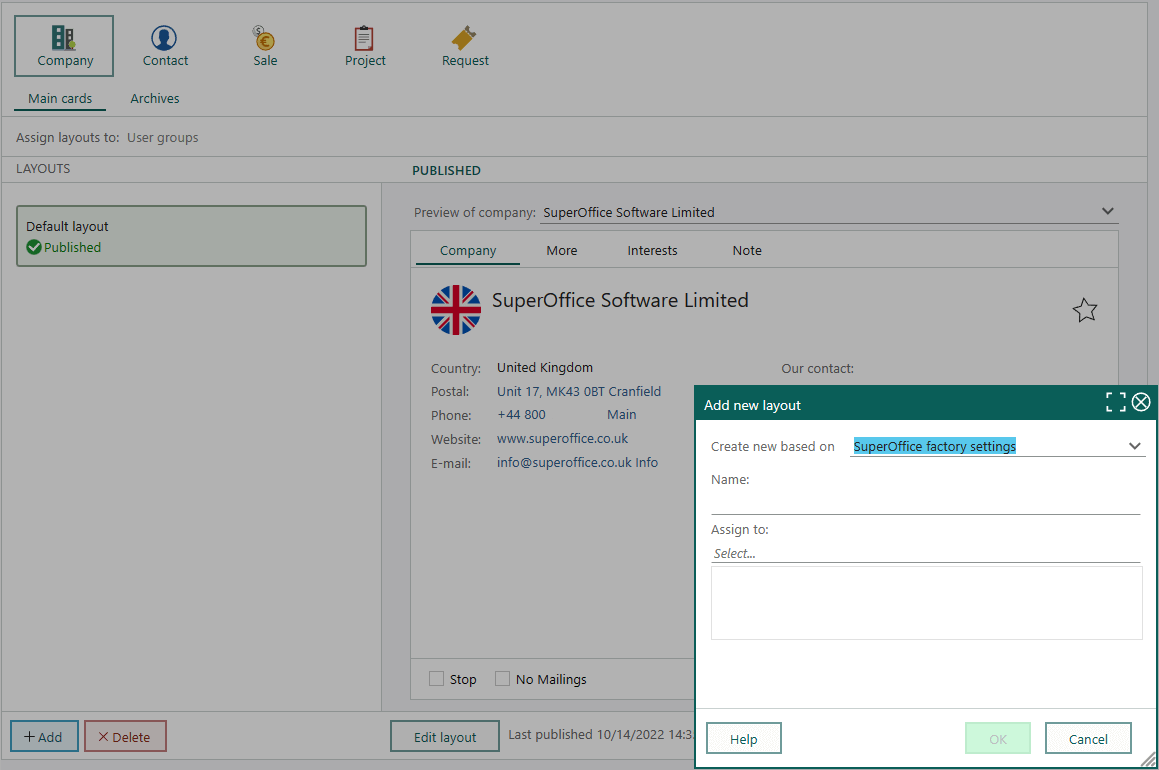
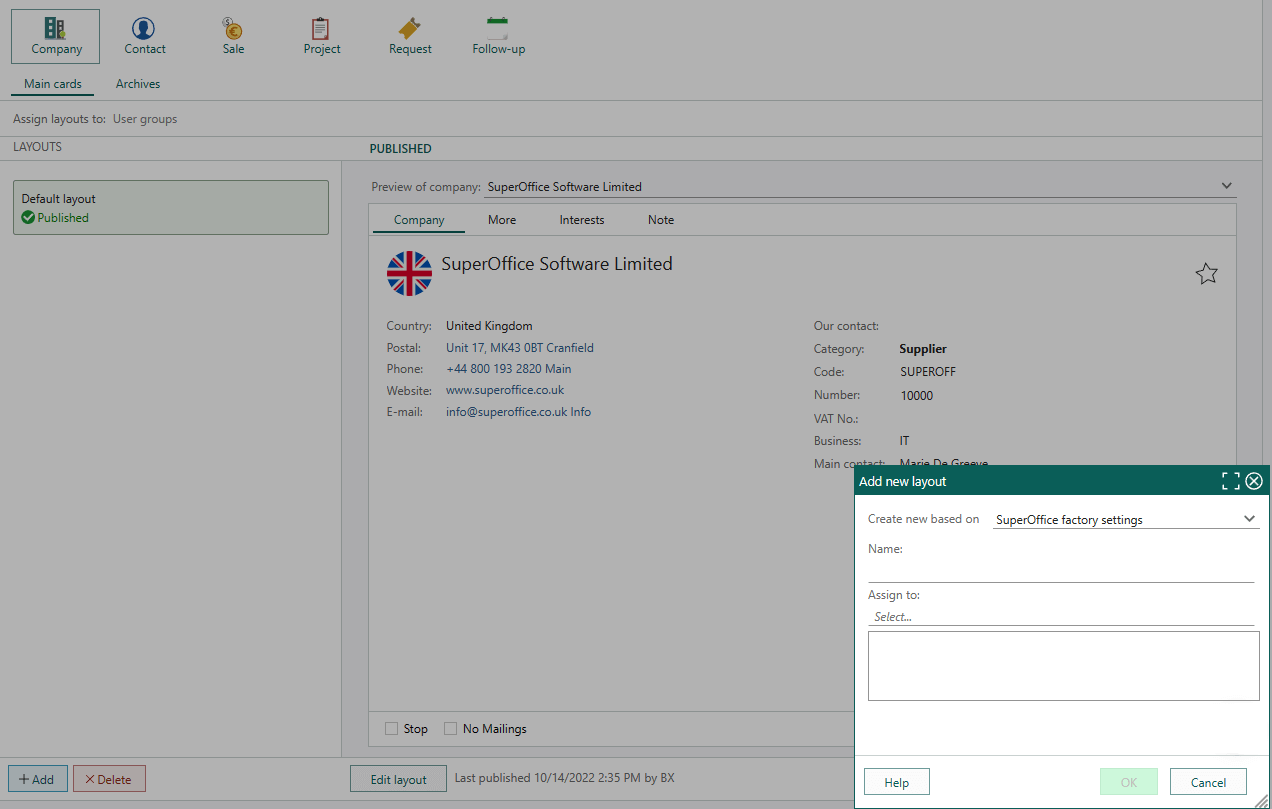
#916 Updated EN text, retook screenshots

diff --git a/docs/en/ui/screen-designer/learn/index.md b/docs/en/ui/screen-designer/learn/index.md
@@ -1,19 +1,22 @@
 ---
 uid: help-en-screen-designer
 title: Screen designer
-description: Learn how to configure your Company, Contact, and Request cards in this how-to guide.
+description: Learn how to configure your screens and dialogs in this how-to guide.
 author: SuperOffice RnD
-so.date: 02.23.2023
+so.date: 01.02.2024
+so.version: 10.2.11
 keywords: screen designer
 so.topic: concept
 language: en
+so.audience: settings
+so.audience.tooltip: Settings and maintenance
 ---
 
 # Screen designer
 
  ![icon][img1]
 
-The Screen designer feature allows you to configure your main screens in SuperOffice CRM. You can create different screen layouts for different user groups, depending on their information needs and workflows. This will help your organisation to be more effective and focus on what matters most.
+The Screen designer feature allows you to configure your main screens in SuperOffice CRM. You can create different screen layouts for different user groups, depending on their information needs and workflows. This will help your organization to be more effective and focus on what matters most.
 
 > [!NOTE]
 > Screen designer (configurable screens) requires the Developer Tools licence.
@@ -22,19 +25,19 @@ The Contact and Company cards/screens in SuperOffice CRM come with a default lay
 
 Screen designer allows you to remove the unnecessary fields and/or create new, more relevant fields. You can also group the fields in tabs or columns and add your own headings (called "labels"). If you find some of the tabs unnecessary, you can easily remove them or replace them with the tabs that are more suitable for your organization.
 
-Your sales team, support team and management team do not necessarily have the same focus and requirements concerning the data they need to access most frequently in SuperOffice. The solution is to create custom screens for each team. Your organization will save time by allowing your teams to find relevant information more quickly. Configure the layout of your main screens and archives (section tabs), and define which types of information each team (user group) can access and see on the Company, Contact, Sale, Project, and Request screens.
+Your sales team, support team and management team do not necessarily have the same focus and requirements concerning the data they need to access most frequently in SuperOffice. The solution is to create custom screens for each team. Your organization will save time by allowing your teams to find relevant information more quickly. Configure the layout of your main screens and archives (section tabs), and define which types of information each team (user group) can access and see on the Company, Contact, Sale, Project, and Request screens and the **Follow-up** dialog.
 
 * Move the most important fields to the first tab.
 * Use columns, labels/titles and dividers to organize information into logical groups.
 * Format fields to emphasize key data (for example, bold and large font) for better visibility.
 * Move less important fields to secondary tabs.
 * Remove fields that are never used.
-* Add links/buttons for looking up information in other websites or to manually trigger an automated process based on CRM Script.
+* Add links/buttons for looking up information in other websites or to manually trigger an automated process based on CRMScript.
 
 > [!NOTE]
-> When this feature is activated, the fields in your current **More** tab for the Company, Contact, Sale, Project, and Request screens will change to form two columns. You can edit these tabs in the screen designer (see [Edit layout][1]).
+> When this feature is activated, the fields in your current **More** tab for the Company, Contact, Sale, Project, and Request screens will change to form two columns. You can [edit these tabs][1] in the screen designer.
 
-You can create custom screen layouts for the Company, Contact, Sale, Project, and Request cards, as seen at the top of the screen. The **Layouts** list displays any existing screen layouts (usually the default layout), with a preview screen on the right.
+You can create custom screen layouts for the Company, Contact, Sale, Project, and Request cards and the **Follow-up** dialog. The **Layouts** list displays any existing screen layouts (usually the default layout), with a preview screen on the right.
 
 The layouts are marked with status (published or draft) and the assigned user groups.
 

diff --git a/docs/en/ui/screen-designer/element-reference.md b/docs/en/ui/screen-designer/element-reference.md
@@ -3,10 +3,12 @@ uid: screen-element-reference
 title: Working with fields
 description: Reference of elements available in the Screen Designer in Settings and maintenance.
 author: Bergfrid Dias
-so.date: 12.12.2023
+so.date: 01.03.2023
 so.version: 10.2.11
 keywords: ui, screen, customization
 so.topic: reference
+so.audience: settings
+so.audience.tooltip: Settings and maintenance
 ---
 
 # Reference
@@ -237,6 +239,39 @@ For details about the value of each field, see the [Ticket database table][12].
 * Details
 * Change log
 
+## Follow-up (only in pilot)
+
+**Standard fields:**
+
+| Field | Type | Comment |
+|---|---|---|
+| Alarm | Drop-down | |
+| [Check availability][15] | Scheduling assistant | |
+| Completed | Checkbox | |
+| Links | Multiline text | Select number of rows. Has no label |
+| Owner | Drop-down | |
+| Priority | Drop-down | |
+| Project Drop-down | | |
+| Sale | Drop-down | |
+| [Suggested time slots][15] | | Has no options |
+| Title | Text | Placement locked. |
+| Type | Drop-down | Placement locked |
+| Video link | Text | Has no options |
+| Visible for | Drop-down | Has no options |
+| Custom fields | | Both user-defined and extra |
+
+* Mandatory fields can't be moved or removed. This applies to: title, type, time, company/contact, attendees, locations, and resources.
+
+* The right column is hidden if no attendees.
+
+For details about the value of each field, see the [Appointment database table][14].
+
+**Default tabs:**
+
+* Agenda
+* Internal notes
+* Links
+
 ## Related content
 
 * [Working with fields][1]
@@ -244,6 +279,7 @@ For details about the value of each field, see the [Ticket database table][12].
 * [Learn more about sales][9]
 * [Learn more about projects][10]
 * [Learn more about requests][11]
+* [Learn more about follow-ups][16]
 
 <!-- Referenced links -->
 [1]: configurable-screens/working-with-fields.md
@@ -259,5 +295,8 @@ For details about the value of each field, see the [Ticket database table][12].
 [11]: ../../request/overview.md
 [12]: ../../database/tables/ticket.md
 [13]: ../../request/learn/type/index.md
+[14]: ../../database/tables/appointment.md
+[15]: ../../diary/learn/invitation/add-participant.md#availability
+[16]: ../../diary/learn/follow-ups.md
 
 <!-- Referenced images -->

diff --git a/docs/en/ui/screen-designer/configurable-screens/assign-layout.md b/docs/en/ui/screen-designer/configurable-screens/assign-layout.md
@@ -1,37 +1,37 @@
 ---
 uid: screen-assign-layout
 title:  Assign a layout
-description: How to assign a layout to a group, sale type, or project type using the Screen Designer in Settings and maintenance.
+description: How to assign a layout to a group, sale type, project type, or request type using the Screen Designer in Settings and maintenance.
 author: Bergfrid Dias
-so.date: 12.12.2023
+so.date: 01.03.2024
 so.version: 10.2.11
-keywords: ui, screen, customization
+keywords: ui, screen, customization, layout, used by
 so.topic: howto
-so.envir:
-so.client:
+so.audience: settings
+so.audience.tooltip: Settings and maintenance
 ---
 
-# Assign layout to group, sale type, or project type
+# Assign layout to group or sale/project/request type
 
 [!include[Requirement](../../../../../common/includes/req-dev-tools.md)]
 
-> [!NOTE]
-> The default layout can't be assigned.
-
-If you delete a layout, user groups assigned to it, will go back to the default layout.
+## Steps
 
 1. Open the Screen Designer.
-2. At the top, select a screen: Company, Contact, Sale, Project, or Request.
+2. At the top, select a screen: Company, Contact, Sale, Project, Request, or Follow-up.
 3. Select a layout in the list on the left side.
 4. Click the **Used by** field. Your options depend on the selected screen.
 
-    * Company, contact, and request: Select one or more user groups.
+    * Company and contact: Select one or more user groups.
     * Sale: First select assignment method (user group or sale type), then select the specific groups or types.
     * Project: First select assignment method (user group or project type), then select the specific groups or types.
     * Request: First select assignment method (user group or request type), then select the specific groups or types.
 
-    > [!NOTE]
-    > A user group can only be assigned to one layout per screen.
+## Restrictions
+
+* The default layout can't be assigned.
+* A user group can only be assigned to one layout per screen.
+* If you delete a layout, user groups assigned to it, will go back to the default layout.
 
 <!-- Referenced links -->
 

diff --git a/docs/en/ui/screen-designer/configurable-screens/index.md b/docs/en/ui/screen-designer/configurable-screens/index.md
@@ -3,12 +3,12 @@ uid: configurable-screens
 title: Configurable screens
 description: Configurable screens
 author: Bergfrid Dias
-so.date: 05.05.2023
+so.date: 01.02.2024
+so.version: 10.2.11
 keywords: ui, screen, customization
 so.topic: concept
-so.version: 10
-so.envir:
-so.client:
+so.audience: settings
+so.audience.tooltip: Settings and maintenance
 ---
 
 # Configurable screens
@@ -24,13 +24,14 @@ Configurable screens enable CRM Administrators to customize SuperOffice CRM user
 * Sale
 * Project
 * Request
+* Follow-up
 
 ## What can I customize?
 
 * Modify the default (system) layout of one or more screens for all users to fit the specific needs of your organization.
 
 * Add personalized views for user groups to make them more effective.
-* Design layouts optimized for specific project types and sales types.
+* Design layouts optimized for specific project types, sale types, and request types.
 * Hide fields that are never used.
 * Give easy access to important custom fields.
 * Add custom buttons and links. For example, to run a CRMScript.
@@ -40,7 +41,7 @@ Configurable screens enable CRM Administrators to customize SuperOffice CRM user
 
 ## Layouts
 
-The default (system) layouts apply to all users until a custom layout is created. [Add custom layouts][2] and assign them to a user group with different needs. Layouts in the **Sales** screen can alternatively be assigned to a **sales type**. Layouts in the **Project** screen can alternatively be assigned to a **project type**.
+The default (system) layouts apply to all users until a custom layout is created. [Add custom layouts][2] and assign them to a user group with different needs. Layouts in the **Sales** screen can alternatively be assigned to a **sales type**. Layouts in the **Project** screen can alternatively be assigned to a **project type**. And layouts in the **Request** screen to **request types**.
 
 Layouts have status *published* or *draft*.
 

diff --git a/docs/en/ui/screen-designer/learn/add-new-layout.md b/docs/en/ui/screen-designer/learn/add-new-layout.md
@@ -3,7 +3,7 @@ uid: help-en-screen-designer-add-layout
 title: Add new screen layout
 description: How to add a new layout for a user group.
 author: Bergfrid Dias
-so.date: 12.12.2023
+so.date: 01.02.2024
 so.version: 10.2.11
 keywords: screen designer, layout, main card, archive
 so.topic: howto
@@ -14,9 +14,9 @@ language: en
 
 # Add new screen layout
 
-If the default layout does not reflect the needs of a user group, you can create a new layout to match the user group's unique information needs. A customized layout for the company, contact, sale, project, and request cards and the different archive/section tabs lets your teams and organization work more efficient.
+If the default layout does not reflect the needs of a user group, you can create a new layout to match the user group's unique information needs. A customized layout for the company, contact, sale, project, and request cards, the archive/section tabs, and the **Follow-up** dialog lets your teams and organization work more efficient.
 
-With custom screen layouts for each of your teams, finding customer data will be easier than ever. The most relevant data will always be available and visible. Remove, move or hide irrelevant or less important data to unclutter the company, contact, sale, project, and request screens. Add customized archives with the most relevant data for your teams. The result will be a cleaner and more tidy screen for your teams to work in.
+With custom screen layouts for each of your teams, finding customer data will be easier than ever. The most relevant data will always be available and visible. Remove, move or hide irrelevant or less important data to unclutter the screens. Add customized archives with the most relevant data for your teams. The result will be a cleaner and more tidy screen for your teams to work in.
 
 ## Main card layout
 

diff --git a/docs/en/ui/screen-designer/configurable-screens/add-layout.md b/docs/en/ui/screen-designer/configurable-screens/add-layout.md
@@ -3,19 +3,19 @@ uid: screen-add-layout
 title:  Add a layout
 description: How to add a layout using the Screen Designer in Settings and maintenance.
 author: Bergfrid Dias
-so.date: 12.12.2023
+so.date: 01.03.2024
 so.version: 10.2.11
 keywords: ui, screen, customization
 so.topic: howto
-so.envir:
-so.client:
+so.audience: settings
+so.audience.tooltip: Settings and maintenance
 ---
 
 # Add a layout
 
 [!include[Requirement](../../../../../common/includes/req-dev-tools.md)]
 
-Whether you add a personalized view for a selected user group or design a layout optimized for specific project types and sales types, start by adding a new layout for a screen in the Screen Designer.
+Whether you add a personalized view for a selected user group or design a layout optimized for specific project, sales, and request types, start by adding a new layout for a screen in the Screen Designer.
 
 ## Create new layout
 
@@ -23,7 +23,7 @@ To create a new screen layout:
 
 1. Open the Screen Designer.
 
-2. At the top, select a screen: Company, Contact, Sale, Project, or Request.
+2. At the top, select a screen: Company, Contact, Sale, Project, Request, or Follow-up.
 
 3. Under **Layouts**, click **Add**.
 

diff --git a/docs/en/ui/screen-designer/learn/edit-layout-archives.md b/docs/en/ui/screen-designer/learn/edit-layout-archives.md
@@ -3,7 +3,8 @@ uid: help-en-archive-edit-layout
 title: Edit layout on section tabs/archives
 description: ScreenDesigner Edit layout - Archives (section tabs)
 author: SuperOffice RnD
-so.date: 02.23.2023
+so.date: 01.03.2024
+so.version: 10.2.11
 keywords: screen designer, section tab, archive
 so.topic: howto
 so.audience: settings
@@ -23,7 +24,7 @@ When you have created a new layout for archives (section tabs) as described in A
 
 ## Steps
 
-You can add a new section tab on any main cards you like. Depending on the main card chosen, you can add a new tab with contents of: Document, Appointment, Product, Project, Project member, Sale, Sale stakeholder, Request, Contact, and Relation.
+You can add a new section tab on any screen with a section tab area. Depending on the main card chosen, you can add a new tab with contents of: Document, Appointment, Product, Project, Project member, Sale, Sale stakeholder, Request, Contact, and Relation.
 
 ![Select the type of content you want to show in the section tab -screenshot][img5]
 

diff --git a/docs/en/ui/screen-designer/configurable-screens/edit-card-layout.md b/docs/en/ui/screen-designer/configurable-screens/edit-card-layout.md
@@ -3,10 +3,12 @@ uid: screen-edit-card
 title: Edit the layout of a card
 description: How to edit the layout of a main card using the Screen Designer in Settings and maintenance.
 author: Bergfrid Dias
-so.date: 05.05.2023
+so.date: 01.02.2024
+so.version: 10.2.11
 keywords: ui, screen, customization
 so.topic: howto
-so.version: 10
+so.audience: settings
+so.audience.tooltip: Settings and maintenance
 ---
 
 # Edit the layout of a card
@@ -28,7 +30,7 @@ Before customizing a layout, determine who the intended users are.
 ## Edit card layout
 
 1. Open the Screen Designer.
-2. Select a card at the top: Company, Contact, Sale, Project, or Request.
+2. Select a card at the top: Company, Contact, Sale, Project, Request, or Follow-up.
 3. Select a layout in the list on the left side.
 4. Click **Edit layout** below the preview.
 5. In the **Edit card layout** window, work your way through the tabs of the screen.

diff --git a/docs/en/ui/screen-designer/index.md b/docs/en/ui/screen-designer/index.md
@@ -7,8 +7,8 @@ so.date: 05.05.2023
 keywords: ui, screen, customization
 so.topic: concept
 so.version: 10
-so.envir:
-so.client:
+so.audience: settings
+so.audience.tooltip: Settings and maintenance
 ---
 
 # The Screen Designer
@@ -54,7 +54,7 @@ Use the **Task** button to revert to an earlier version of the screen.
 
 Without the Development Tools license, the **More** tab shows all custom fields, organized in two columns.
 
-<!-- When a customer publishes their first layout from the Screen Designer, page1 admin is gone. However, this ability is preserved you don't use the designer. -->
+<!-- When a customer publishes their first layout from the Screen Designer, page1 admin is gone. However, this ability is preserved if you don't use the designer. -->
 
 <!-- Referenced links -->
 [1]: configurable-screens/working-with-fields.md

diff --git a/docs/en/ui/screen-designer/configurable-screens/working-with-fields.md b/docs/en/ui/screen-designer/configurable-screens/working-with-fields.md
@@ -3,10 +3,12 @@ uid: screen-fields
 title: Working with fields
 description: How to add, move, and delete fields in a layout using the Screen Designer in Settings and maintenance.
 author: Bergfrid Dias
-so.date: 10.10.2022
+so.date: 01.03.2024
 keywords: ui, screen, customization
 so.topic: howto
 so.version: 10
+so.audience: settings
+so.audience.tooltip: Settings and maintenance
 ---
 
 # Working with fields
@@ -84,4 +86,4 @@ To restore the field, simply [re-add the field](#add-field).
 [3]: working-with-tabs.md#add-heading-or-divider
 
 <!-- Referenced images -->
-[img1]: media/edit-card-layout-fields.png
+[img1]: ../../../../media/loc/en/ui/edit-card-layout-fields.png

diff --git a/docs/en/ui/screen-designer/learn/includes/goto-screen-designer.md b/docs/en/ui/screen-designer/learn/includes/goto-screen-designer.md
@@ -1,7 +1,7 @@
 <!-- markdownlint-disable-file MD041 -->
 1. Select ![icon][img1] **Screen designer** in the Navigator.
 
-2. Click **Company**, **Contact**, **Sale**, **Project**, or **Request** at the top.
+2. Click **Company**, **Contact**, **Sale**, **Project**, **Request**, or **Follow-up** at the top.
 
 <!-- Referenced images -->
 [img1]: ../../../../../../common/icons/nav-admin-confscreen-active.png
